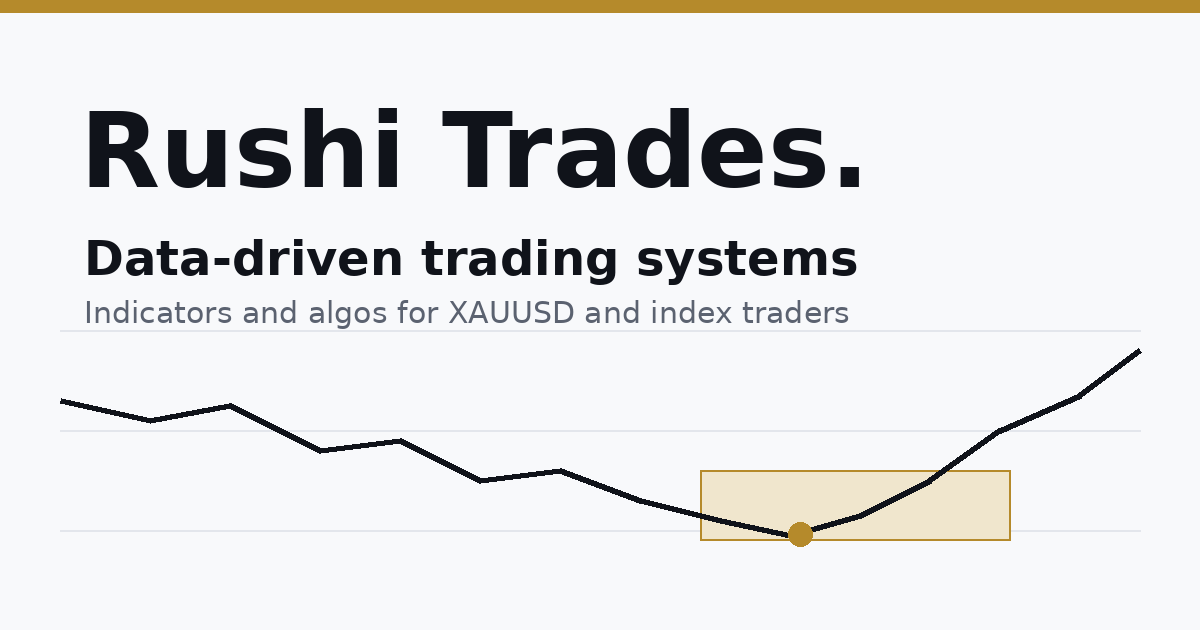
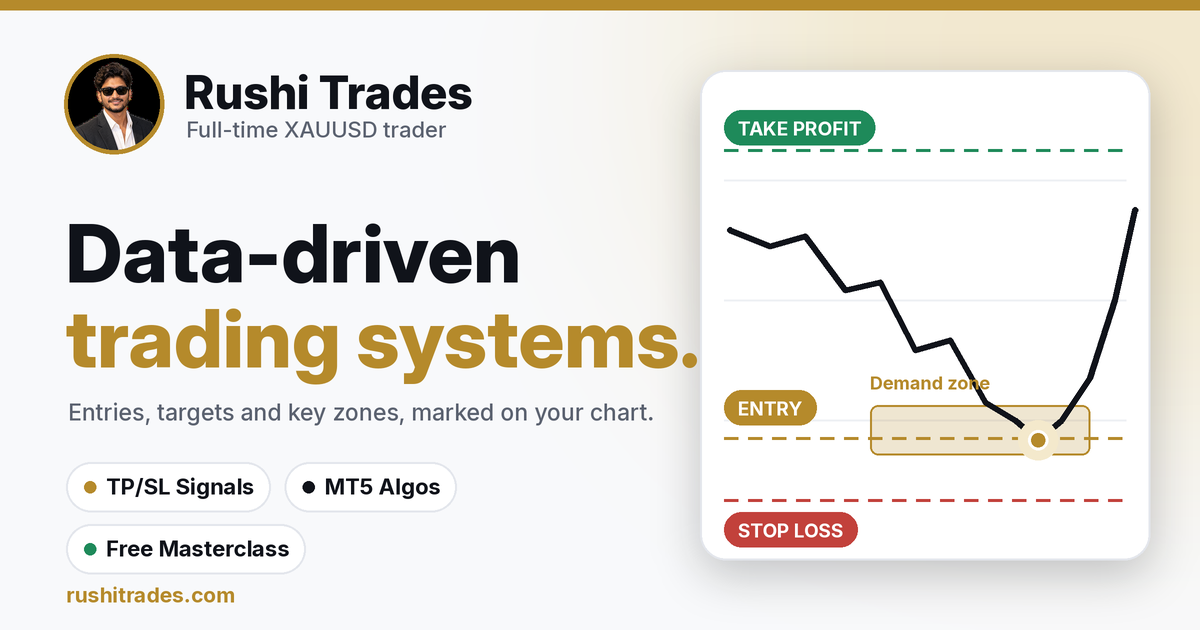
Add files via upload

diff --git a/index.html b/index.html
@@ -13,13 +13,13 @@
 <meta property="og:title" content="Rushi Trades | Data-driven trading systems">
 <meta property="og:description" content="TradingView indicators and MT5 algos for XAUUSD and index traders. Entries, take profit and stop loss marked right on your chart.">
 <meta property="og:url" content="https://rushitrades.com/">
-<meta property="og:image" content="https://rushitrades.com/og-image.png">
+<meta property="og:image" content="https://rushitrades.com/og-image.png?v=2">
 <meta property="og:image:width" content="1200">
 <meta property="og:image:height" content="630">
 <meta name="twitter:card" content="summary_large_image">
 <meta name="twitter:title" content="Rushi Trades | Data-driven trading systems">
 <meta name="twitter:description" content="TradingView indicators and MT5 algos for XAUUSD and index traders.">
-<meta name="twitter:image" content="https://rushitrades.com/og-image.png">
+<meta name="twitter:image" content="https://rushitrades.com/og-image.png?v=2">
 <script type="application/ld+json">{"@context":"https://schema.org","@type":"Organization","name":"Rushi Trades","url":"https://rushitrades.com/","sameAs":["https://www.youtube.com/@rushitrades","https://t.me/rushitradess"]}</script>
 <link rel="preconnect" href="https://fonts.googleapis.com">
 <link rel="preconnect" href="https://fonts.gstatic.com" crossorigin>
@@ -351,7 +351,7 @@ details .a{padding:0 2px 26px;max-width:690px;animation:slide .4s ease}
   </div>
 </div></footer>
 
-<a class="fab" href="https://t.me/rushitradess" target="_blank" rel="noopener" aria-label="Chat with Rushi Trades on Telegram">
+<a class="fab" href="https://t.me/rushitrades" target="_blank" rel="noopener" aria-label="Chat with Rushi Trades on Telegram">
   <svg viewBox="0 0 24 24" aria-hidden="true"><path d="M9.78 18.65l.28-4.23 7.68-6.92c.34-.31-.07-.46-.52-.19L7.74 13.3 3.64 12c-.88-.25-.89-.86.2-1.3l15.97-6.16c.73-.33 1.43.18 1.15 1.3l-2.72 12.81c-.19.91-.74 1.13-1.5.71L12.6 16.3l-1.99 1.93c-.23.23-.42.42-.83.42z"/></svg>
   <span>Chat on Telegram</span>
 </a>
